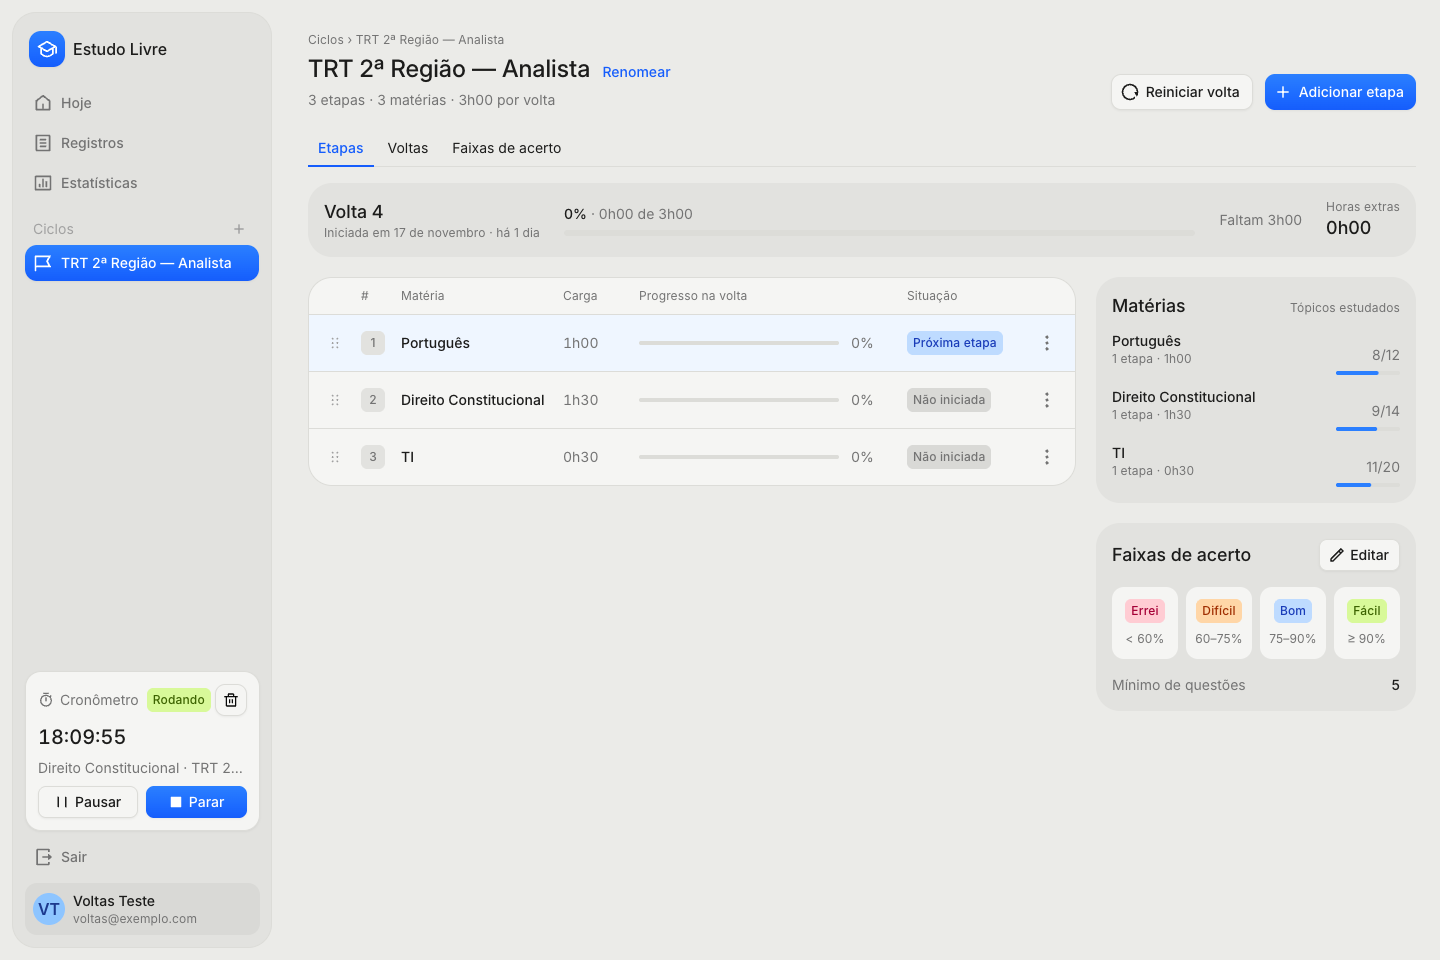
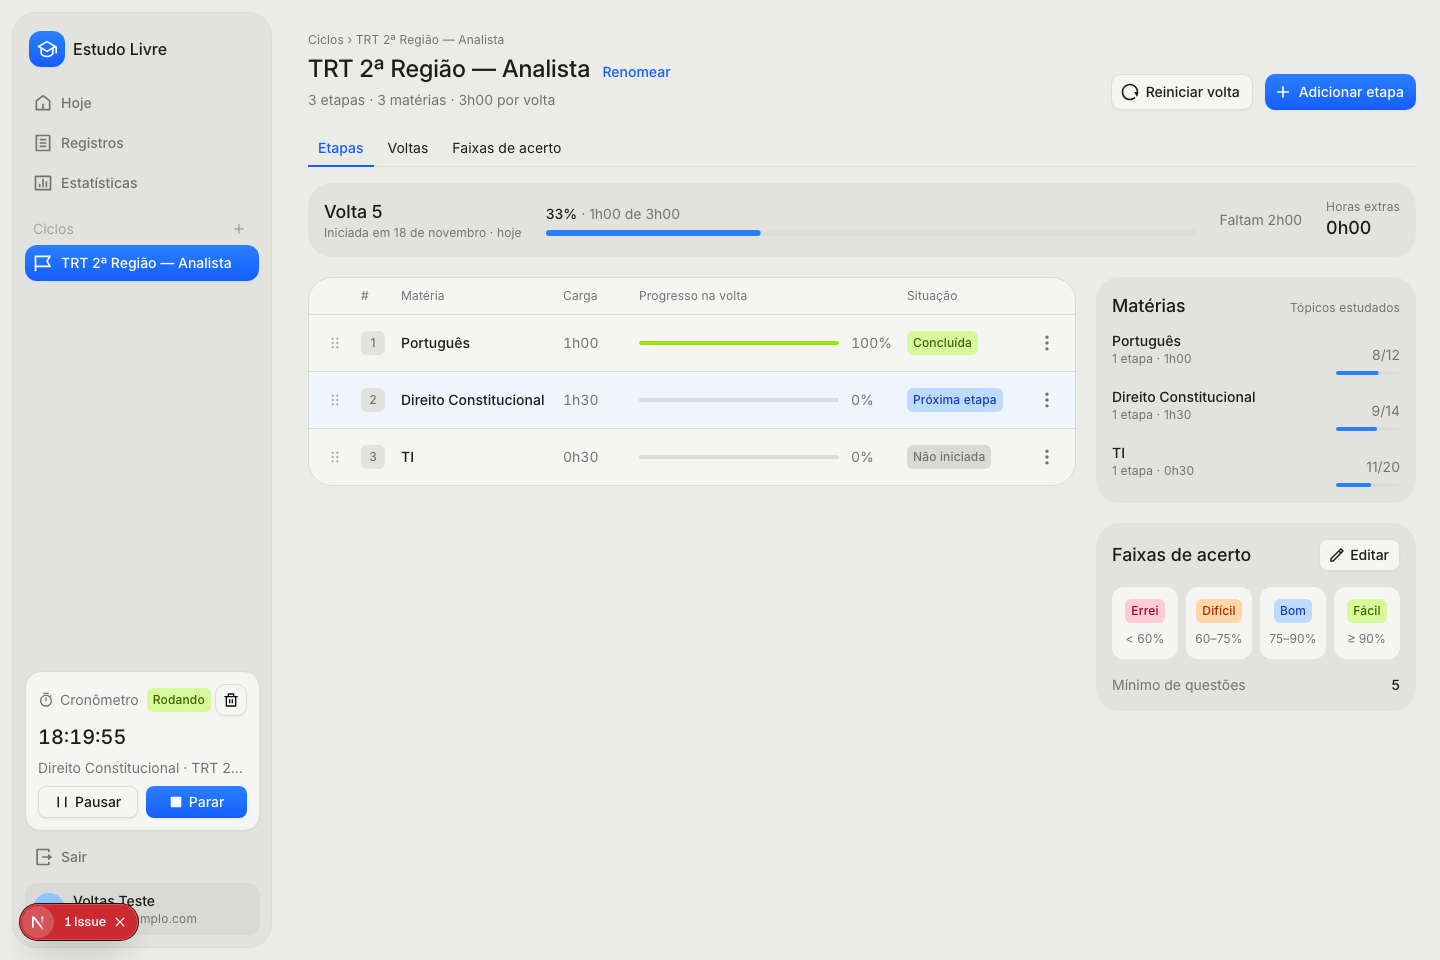
docs(revisao): veredito do verificador e das telas, findings fechados

diff --git a/.specs/features/cartao-de-revisao/verification.md b/.specs/features/cartao-de-revisao/verification.md
@@ -1,0 +1,59 @@
+# Cartão de revisão verification
+
+**Verdict**: FAIL
+**Proofs**: `proofs.md` at 0469edd
+**Verifier**: independent sub-agent (author != verifier)
+
+## Checks
+
+| Check | Test | Holds |
+| --- | --- | --- |
+| C1 | cartoes.test.ts `o primeiro registro de um Tópico cria o Cartão` | no - só `toBeInstanceOf(Date)`; qualquer data passa (valor coberto por C8) |
+| C2 | cartoes.test.ts `primeiro registro sem questões cria o Cartão sem data` | yes |
+| C3 | revisao.test.ts `conversão de nota pelas Faixas padrão` | yes - os 6 valores da spec |
+| C4 | cartoes.test.ts `questões no mínimo sugerem a nota das Faixas e aceitam a escolhida` | yes - 5 questões (fronteira), escolhida vence |
+| C5 | cartoes.test.ts `abaixo do mínimo vale a nota escolhida` | no - grava Difícil mas o Cartão só é checado como `Date` |
+| C6 | cartoes.test.ts `abaixo do mínimo sem nota recusa e não grava nada` | yes - mensagem exata, sem Registro nem Cartão |
+| C7 | cartoes.test.ts `registro sem questões não altera o Cartão` | yes |
+| C8 | cartoes.test.ts `a nota é aplicada na data do registro` | yes |
+| C9 | cartoes.test.ts `criar, editar e excluir dão o Cartão do recálculo do zero` | yes - compara data e estado com a reaplicação |
+| C10 | cartoes.test.ts `trocar Matéria ou Tópico recalcula os dois Cartões` | yes |
+| C11 | cartoes.test.ts `registro retroativo entra na ordem cronológica` | yes |
+| C12 | cartoes.test.ts `excluir o último registro remove o Cartão e o log` | yes |
+| C13 | cartoes.test.ts `editar para sem questões apaga a nota` | yes |
+| C14 | cartoes.test.ts `um item por registro com nota` | yes |
+| C15 | cartoes.test.ts `excluir o Tópico remove Cartão e log e mantém os Registros` | yes |
+| C16 | migracao-cartoes.test.ts `cria os Cartões dos Registros que já existem` | no - nenhum Registro com exatamente 5 questões nem com Acertos vazio; `>= 5` virar `> 5` ou sumir o `coalesce` passa |
+| C17 | cartoes.test.ts `Cartão e Registros de outro Usuário não mudam` | yes |
+| C18 | n/a (browser) | n/a - walk/browser, julgado na visita/telas |
+| C19 | revisao.test.ts `a frase da faixa traz a porcentagem e a faixa` | yes |
+| C20 | revisao.test.ts `abaixo do Mínimo não há sugestão e a frase pede a nota` | yes |
+| C21 | n/a (walk) | n/a - walk/browser, julgado na visita/telas |
+| C22 | n/a (walk) | n/a - walk/browser, julgado na visita/telas |
+| C23 | cartoes.test.ts `a data estimada é a do Cartão depois de salvar` | yes - novo, hoje, retroativo e edição |
+| C24 | cartoes.test.ts `sem Tópico ou sem data não há estimativa` | yes |
+| C25 | n/a (walk) | n/a - walk/browser, julgado na visita/telas |
+| C26 | cartoes.test.ts `o histórico devolve a nota gravada do Registro` | no - prova só que `listarRegistros` devolve a nota; a nota marcada no modal e a sugestão pelas Faixas atuais (2a metade do AC) não têm teste 09cff11 |
+| C27 | n/a (walk) | n/a - walk/browser, julgado na visita/telas |
+| C28 | n/a (browser) | n/a - walk/browser, julgado na visita/telas |
+| C29 | faixas.test.ts `todo Ciclo tem as Faixas 60, 75 e 90 e o Mínimo 5` | yes |
+| C30 | n/a (walk) | n/a - walk/browser, julgado na visita/telas |
+| C31 | faixas.test.ts `salvar valores válidos grava` | yes - inclui os extremos 1, 100, 1000 |
+| C32 | faixas.test.ts `valores inválidos são recusados e os gravados ficam` | yes - 7 casos; cada limite não tem os dois lados (ex. `dificilAte` 101), validado também em revisao.test.ts |
+| C33 | faixas.test.ts `mudar as Faixas só vale para os Registros seguintes` | yes |
+| C34 | n/a (walk) | n/a - walk/browser, julgado na visita/telas |
+| C35 | faixas.test.ts `o Ciclo de outro Usuário não aparece nem muda` | yes |
+| C36 | formato.test.ts `texto com a data` | yes - testa o formatador, não a lista renderizada |
+| C37 | formato.test.ts `sem data` | yes - idem |
+| C38 | n/a (walk) | n/a - walk/browser, julgado na visita/telas |
+| C39 | topicos.test.ts `a Matéria traz a data de cada Tópico` | yes |
+
+## Findings
+
+| Finding | Evidence | Fix | Closed |
+| --- | --- | --- | --- |
+| Migração: fronteira `questoes >= 5` e `coalesce(acertos,0)` sem teste | `tests/migracao-cartoes.test.ts` só tem 20, 3 e 10 questões, todas com acertos; `drizzle/0006_dashing_the_enforcers.sql` (C16) | incluir Registro com 5 questões, outro com 4 e outro com Acertos vazio e questões >= 5 709182b |
+| C1 e C5 só provam que a data é um `Date` | `tests/cartoes.test.ts:74` e `:117` - `toBeInstanceOf(Date)` | comparar com `recalcularCartao` da nota esperada (Bom e Difícil) 709182b |
+| C26 não cobre o que o AC pede no modal de edição | só `listarRegistros` devolve `nota`; `formulario-de-registro.tsx:81` guarda a nota gravada como escolhida, então editar acertos não refaz a sugestão e a "sugestão pelas Faixas atuais" do AC 9 não tem check nem teste | acrescentar check (walk) para a edição ou decidir na spec se a nota gravada conta como escolhida 09cff11 |
+
+Exemplos próprios rodados e verdes (descartados): 179/200 = 89,5% dá Fácil, 149/200 dá Bom, 119/200 dá Difícil; 4 registros simultâneos com a mesma data/hora no mesmo Tópico dão o Cartão da reaplicação; edição que move Registro para Matéria de Ciclo com outras Faixas: estimativa igual ao Cartão salvo, nota pelas Faixas do Ciclo de destino, Cartão de origem removido; retroativo com o mesmo dia de outro Registro: estimativa igual ao Cartão. Capturas binding: sem contradição com a spec (diferenças listadas em Differences from the source).

diff --git a/.specs/features/cartao-de-revisao/screens.md b/.specs/features/cartao-de-revisao/screens.md
@@ -1,0 +1,56 @@
+# Cartão de revisão screens
+
+**Verifier**: independent sub-agent (author != verifier)
+**Round**: 2
+
+| Screen | Compared with | Verdict | Finding |
+| --- | --- | --- | --- |
+| `captures/registrar-estudo.running.png` | `captures/registrar-estudo.png` | matches | round 2: trash button is an approved difference (AD-006) |
+| `captures/ciclo.running.png` | `captures/ciclo.png` | matches | round 2: trash button (AD-006) and "Renomear" link (AD-001) are approved differences |
+
+Round 2 retook both pictures (same setup; Fácil limit of the Ciclo back to 90) and reopened only the rows that differed in round 1. All other rows are as judged in round 1.
+
+Pictures taken by this verifier: Chromium headless, viewport 1440x960, 1x, app on :3100, user voltas@exemplo.com. The red/dark "N" Next.js dev badge (bottom-left) is dev tooling, not product, and is ignored.
+
+### `captures/registrar-estudo.running.png`
+
+| Element | Result | Picture draws |
+| --- | --- | --- |
+| dimmed app behind the modal, Sidebar + header of Hoje | same | Sample data differs; Sidebar without Revisões/Arquivados/counter is listed in Differences |
+| Sidebar timer card: "Cronômetro", "Rodando", time, Pausar, Parar | same | round 2: trash icon button right of "Rodando" is the approved difference (AD-006) |
+| modal title "Registrar estudo" with close `×` top right | same | |
+| subtitle "Duração preenchida pelo cronômetro" | same | not drawn: it belongs to the timer-prefilled state, which this walk does not enter (code has it) |
+| Matéria select "Direito Constitucional · TRT 2ª Região — Analista" | same | |
+| Conteúdo segment Tópico / Conteúdo livre / Sem conteúdo, Tópico selected | same | |
+| Tópico select | same | "Tópico 1" |
+| Data field with date and time "dd/mm/aaaa · hh:mm" | same | date only, native date input (Differences) |
+| Duração "1h 10min" single field | same | Horas and Minutos fields (Differences) |
+| Tipo de estudo segment of 5 options (Teoria ... Leitura de lei) | same | Teoria selected instead of Exercícios (data) |
+| Questões and Acertos inputs plus read-only "Acerto 80%" tile on one row | same | |
+| "Nota da revisão" label with chip "Sugerida: Bom" | same | |
+| Nota segment Errei / Difícil / Bom / Fácil with Bom selected | same | |
+| phrase under the segment "80% está na faixa 75–90% deste ciclo. Você pode trocar a nota antes de salvar." | same | "75–95%": Fácil limit of this Ciclo is 95 (data) |
+| Anotação label and textarea | same | empty with placeholder "Opcional" (data) |
+| footer left "Próxima revisão estimada: dd/mm" with refresh icon | same | 27/11 |
+| footer right Cancelar and "Salvar registro" with check icon | same | |
+| modal order top to bottom as above, nesting inside one card | same | |
+
+### `captures/ciclo.running.png`
+
+| Element | Result | Picture draws |
+| --- | --- | --- |
+| Sidebar: logo, Hoje, Registros, Estatísticas, Ciclos list with the Ciclo highlighted, Sair, user card | same | Revisões, Arquivados, counters absent (Differences); "Usuários" is admin-only and the test user is not admin; sample data |
+| Sidebar timer card with Rodando, time, Pausar, Parar | same | round 2: trash icon button right of "Rodando" is the approved difference (AD-006) |
+| breadcrumb "Ciclos > TRT 2ª Região — Analista" | same | |
+| page title with Ciclo name | same | round 2: blue "Renomear" link beside the title is the approved difference (AD-001) |
+| subtitle "N etapas · N matérias · carga por volta" | same | |
+| header actions: Reiniciar volta, Adicionar etapa | same | Arquivar absent (Differences) |
+| tabs Etapas, Voltas, Faixas de acerto, Etapas active with underline | same | Matérias tab absent (Differences) |
+| Volta card: "Volta N", "Iniciada em ... · hoje", percent, progress bar, "Faltam", "Horas extras" | same | |
+| Etapas table: columns #, Matéria, Carga, Progresso na volta, Situação, row menu, drag handle | same | |
+| Situação chips Concluída (green), Próxima etapa (blue, highlighted row), Não iniciada (grey) | same | |
+| right column card "Matérias" with "Tópicos estudados" and per-Matéria lines | same | |
+| right column card "Faixas de acerto" title with "Editar" button (pencil) | same | |
+| four chips Errei < 60%, Difícil 60–75%, Bom 75–95%, Fácil ≥ 95% in a row, colours red/orange/blue/green | same | Fácil 95 instead of 90 (data) |
+| "Mínimo de questões" label with value 5 on the right | same | |
+| arrangement: table left, Matérias card above Faixas card on the right | same | |

diff --git a/.specs/features/cartao-de-revisao/tasks.md b/.specs/features/cartao-de-revisao/tasks.md
@@ -546,7 +546,7 @@ Proof: run unit | ✓ tests/topicos.test.ts > próxima revisão > a Matéria tra
 The feature's live state, written as it happens - a compaction gives no warning.
 
 **Settled mid-build:** none
-**Dispatched:** batch 1 (Phase 1, T1-T4) worker, sent at spec commit; started; returned; batch 2 (Phase 2, T5-T10) worker, sent at HEAD 3f04a7b; returned; batch 3 (Phase 3, T11-T18) worker, sent at HEAD a7cf6e1; returned; Verifier e sub-agente de telas (rodada 1), em paralelo, sobre HEAD 0469edd
+**Dispatched:** batch 1 (Phase 1, T1-T4) worker, sent at spec commit; started; returned; batch 2 (Phase 2, T5-T10) worker, sent at HEAD 3f04a7b; returned; batch 3 (Phase 3, T11-T18) worker, sent at HEAD a7cf6e1; returned; Verifier e sub-agente de telas (rodada 1), em paralelo, sobre HEAD 0469edd; Verifier retornou (FAIL, 3 findings, fechados); telas rodada 1 retornou e rodada 2 retornou: matches
 **Walked:** App em `http://localhost:3100` (`next dev`, banco dev `postgres://postgres:dev@localhost:54330/dev`, migrações aplicadas), entrar com `voltas@exemplo.com` / `senha-de-teste-123`, Ciclo "TRT 2ª Região — Analista" em `/ciclos/d096c67a-327d-4e2d-965c-543706d42093` (Matéria Português em `/ciclos/d096c67a-327d-4e2d-965c-543706d42093/materias/7702c10b-7b34-4abc-b931-cabeb09c5bcf`), janela de 1440x960, tema Claro suave (e Escuro com `localStorage.tema = "escuro"`). Cliques reais num Chromium sem cabeça (Playwright).
 - Nota da revisão no modal (REV-09/10): em "Registrar estudo" (botão da Hoje), Tópico 1, 20 questões e 16 acertos mostram "Nota da revisão", "Sugerida: Bom", Bom marcado, "80% está na faixa 75–90% deste ciclo. Você pode trocar a nota antes de salvar." e o rodapé "Próxima revisão estimada: 21/11". C22: acertos 16 para 20 troca para "Sugerida: Fácil" com Fácil marcado ("100% está na faixa ≥ 90%", 26/11); depois de escolher Errei à mão, mudar os acertos mantém Errei (só o chip "Sugerida" muda). C21: escolher Fácil marca Fácil e o Registro gravou Fácil. C25: "Conteúdo livre" e "Sem conteúdo" escondem "Nota da revisão" e o rodapé; voltar a "Tópico" traz a seção de volta. C27: Tópico 3, 2 questões, 1 acerto, "Salvar registro" sem nota mostra "Escolha a nota da revisão." sob o controle ("Menos de 5 questões: escolha a nota da revisão.") com o modal aberto e Tópico/questões/acertos intactos. C26: em `/registros`, "Editar" no Registro com Fácil abre "Editar registro" com Fácil marcada, "Sugerida: Bom" (80%, Faixas atuais) e "Próxima revisão estimada: 26/11".
 - Faixas de acerto do Ciclo (REV-11/12): na aba "Etapas" o cartão "Faixas de acerto" fica abaixo de "Matérias" com Errei "< 60%", Difícil "60–75%", Bom "75–90%", Fácil "≥ 90%", "Mínimo de questões 5" e "Editar". C34: a aba "Faixas de acerto" mostra o mesmo cartão com "Editar". C30: "Editar" abre "Editar faixas de acerto" com 60, 75, 90 e 5 (campos "Errei: abaixo de (%)", "Difícil: abaixo de (%)", "Bom: abaixo de (%)", "Mínimo de questões"; o limite de Fácil é o terceiro). Terceiro limite 70 mostra "Cada limite deve ser maior que o anterior." sob o campo e o modal fica aberto; 95 fecha o modal e o cartão mostra "75–95%" e "≥ 95%"; com 25 questões e 23 acertos (92%) o modal sugere Bom ("92% está na faixa 75–95% deste ciclo"). Depois voltei o limite para 90.
